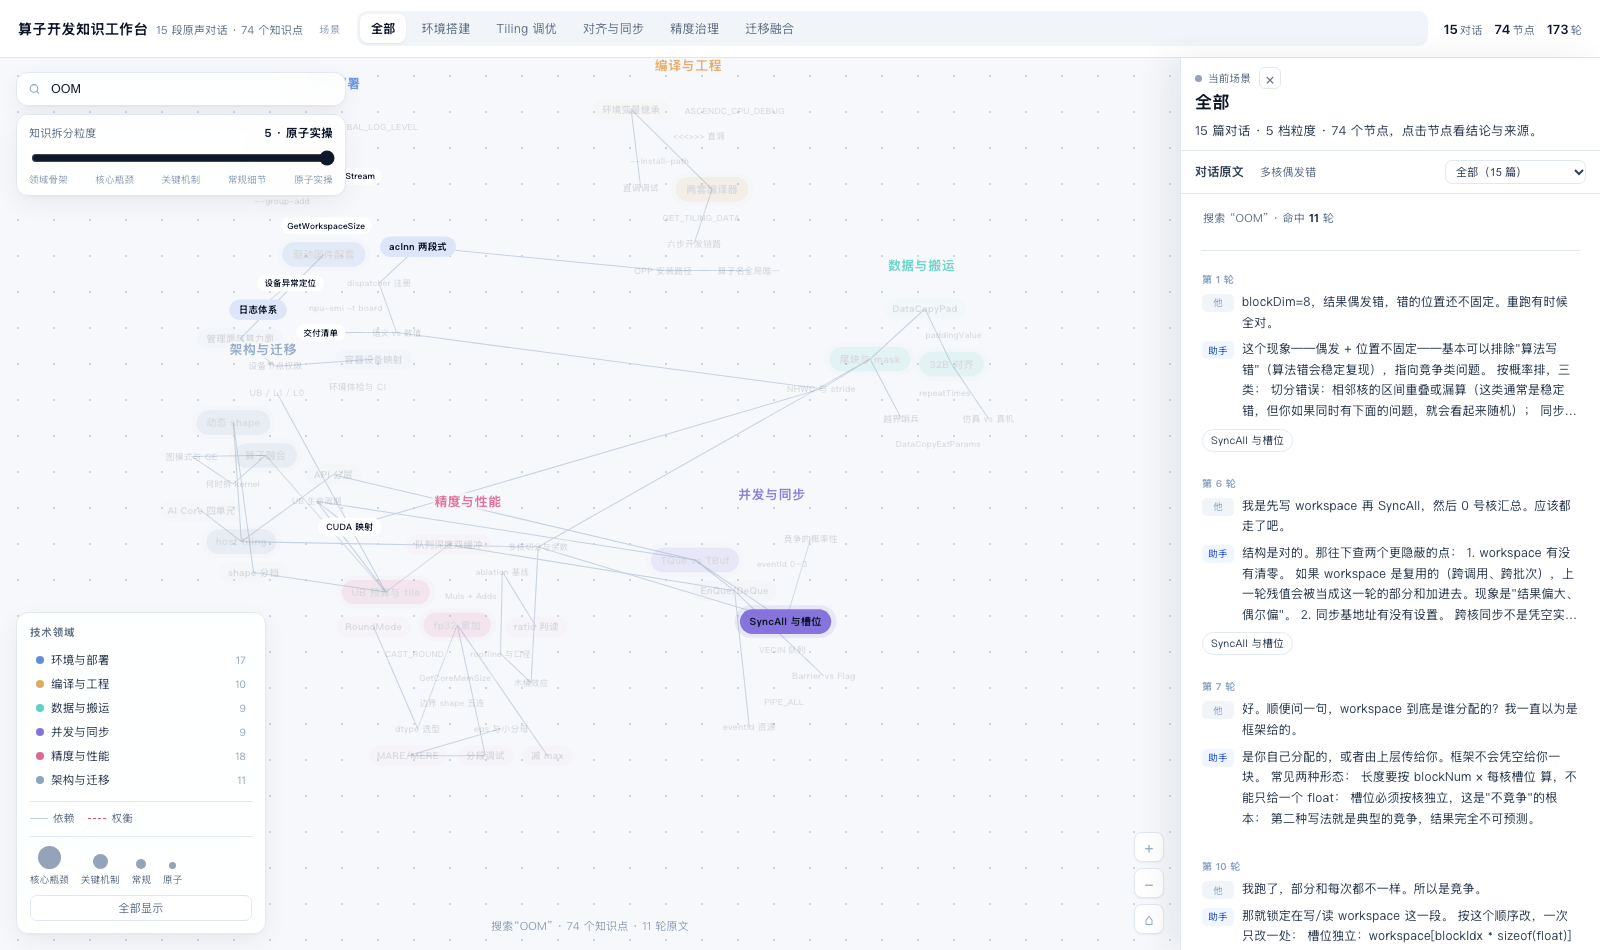
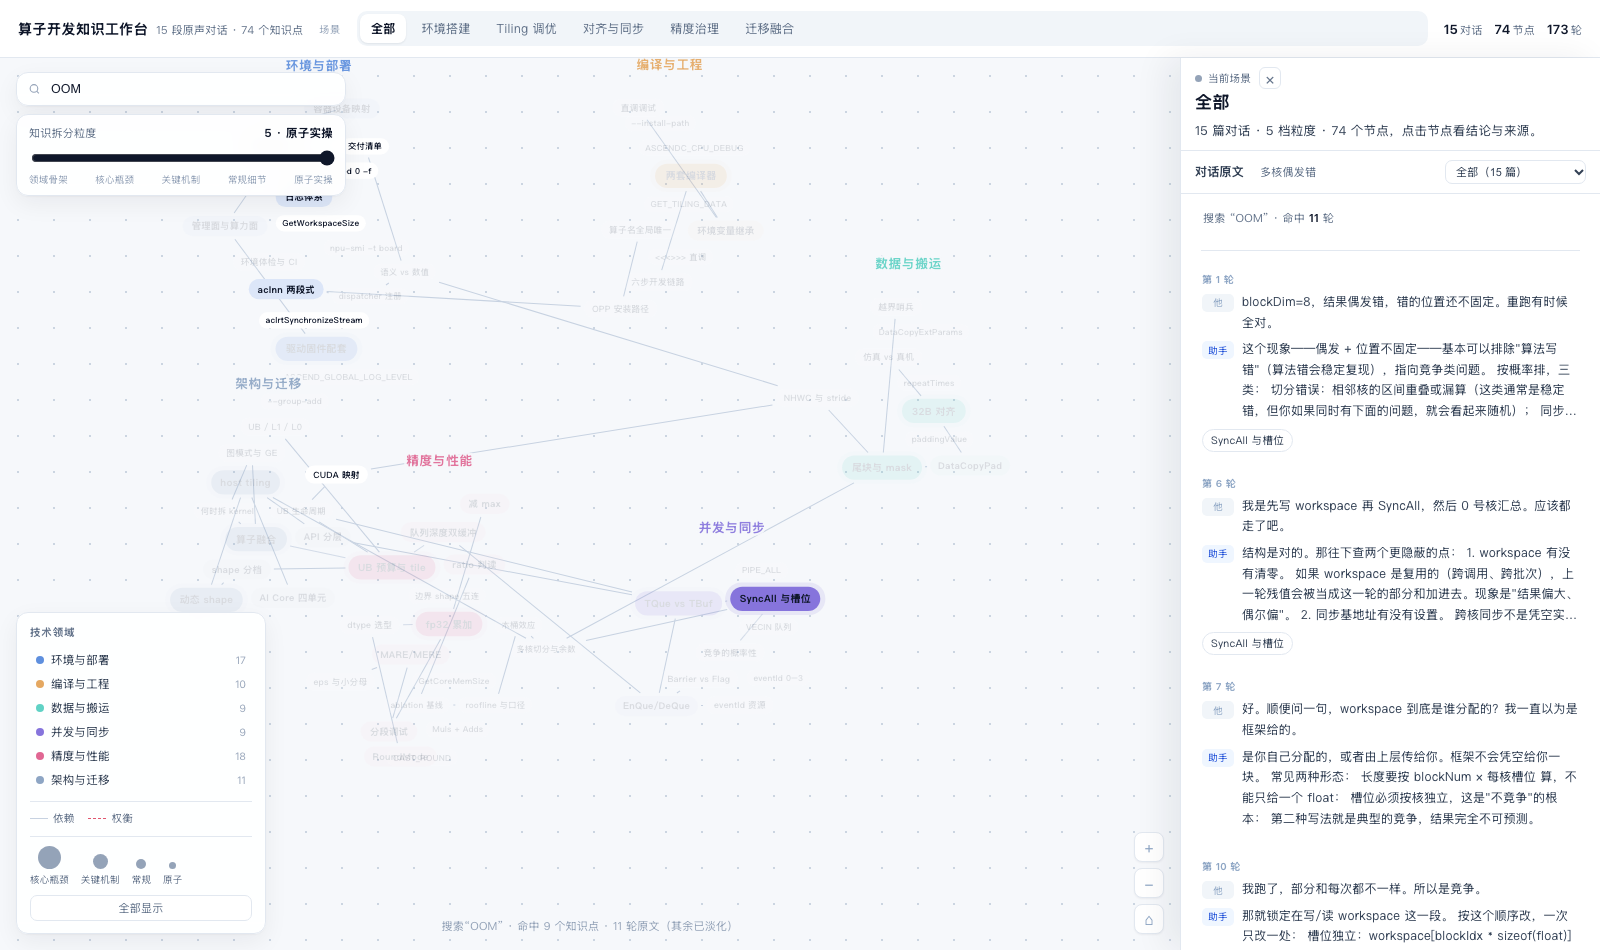
fix(edges): 连线在胶囊边缘截断，搜索时隐藏无关边

diff --git a/cann-dashboard/算子知识工作台.html b/cann-dashboard/算子知识工作台.html
@@ -652,9 +652,13 @@ function render(){
   const eg=$('#edges'); eg.innerHTML='';
   AGG.forEach(e=>{
     const A=nodeById[e.a],B=nodeById[e.b];
+    const dx=B.x-A.x, dy=B.y-A.y, L=Math.hypot(dx,dy)||1;
+    const ux=dx/L, uy=dy/L;
+    const ta=Math.min((A.__w/2+3)/Math.max(Math.abs(ux),1e-6),(A.__h/2+3)/Math.max(Math.abs(uy),1e-6));
+    const tb=Math.min((B.__w/2+3)/Math.max(Math.abs(ux),1e-6),(B.__h/2+3)/Math.max(Math.abs(uy),1e-6));
     const ln=document.createElementNS(NS,'line');
-    ln.setAttribute('x1',A.x); ln.setAttribute('y1',A.y);
-    ln.setAttribute('x2',B.x); ln.setAttribute('y2',B.y);
+    ln.setAttribute('x1',A.x+ux*ta); ln.setAttribute('y1',A.y+uy*ta);
+    ln.setAttribute('x2',B.x-ux*tb); ln.setAttribute('y2',B.y-uy*tb);
     ln.setAttribute('class','edge '+(e.kind==='trade'?'trade':'dep')+(e.count>1?' agg':''));
     const wd=(e.kind==='trade'?1.7:1)+Math.min(e.count-1,3)*0.55;
     ln.setAttribute('stroke-width',wd.toFixed(2));
@@ -712,7 +716,7 @@ function applyHighlight(){
     glows.forEach(g=>g.style.opacity=0);
     AGG.forEach(e=>{
       const on=HITS?(HITS.has(e.a)||HITS.has(e.b)):true;
-      e.__el.setAttribute('stroke-opacity',on?'1':'.06');
+      e.__el.setAttribute('stroke-opacity',on?'1':'0');
     });
     document.querySelectorAll('.eglabel').forEach(e=>e.remove());
     AGG.forEach(e=>{ e.__el.setAttribute('stroke-opacity','1'); e.__el.removeAttribute('marker-end'); });
